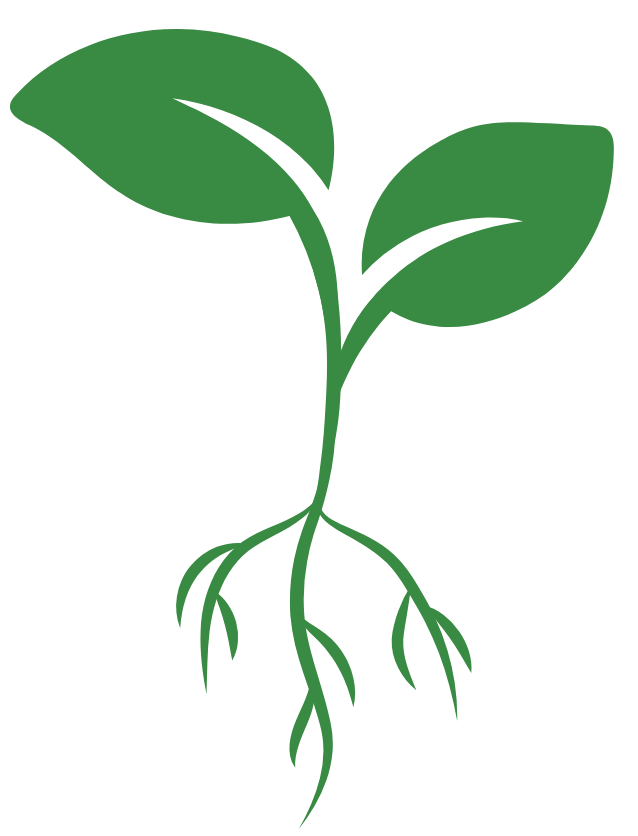
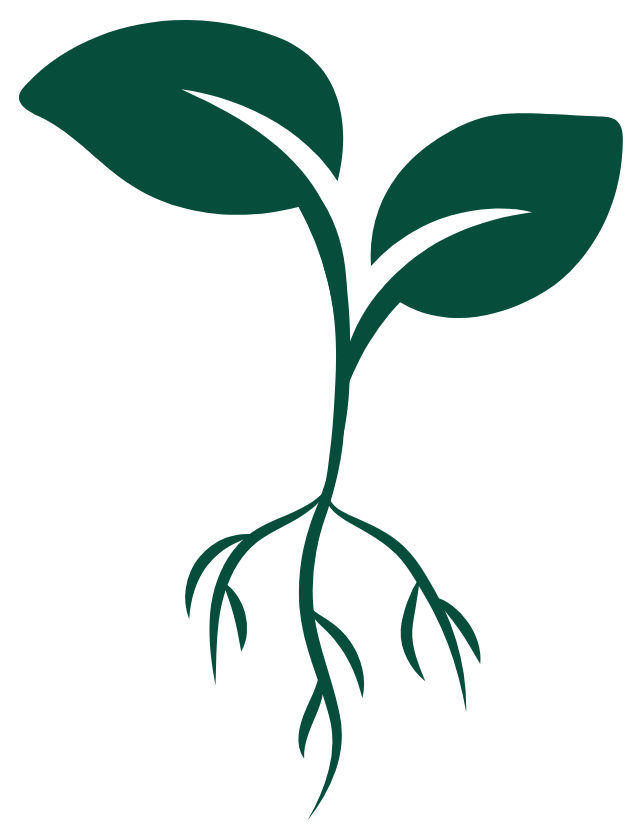
Función para modificar terminada y pequeños ajustes visuales

Changed region(s): [[0.0, 0.0, 0.9828, 0.994]]

diff --git a/mind-root/src/App.css b/mind-root/src/App.css
@@ -97,7 +97,7 @@ body {
 
 .InputBuscar {
   font-size: 1.1rem;
-  border: 1px solid #064E3B;
+  border: 3px solid #064E3B;
   border-radius: 15px;
   width: 800px;
   height: 50px;
@@ -105,9 +105,9 @@ body {
 }
 
 .BtnAgregar {
-  color: #F8E7C9;
-  width: 50px;
-  height: 50px;
+  color: #FFFF;
+  width: 55px;
+  height: 55px;
   font-size: 40px;
   border: 1px solid rgb(117, 175, 117);
   border-radius: 10px;
@@ -132,10 +132,8 @@ body {
   min-height: 140px;
   padding: 15px;
   background-color: rgb(255, 255, 255);
-  border: 1px solid rgb(200, 200, 200);
-  border-color: #064E3B;
+  box-shadow: 0 8px 16px rgba(0, 0, 0, 0.4);
   border-radius: 15px;
-  box-shadow: 0 2px 4px rgba(0, 0, 0, 0.05);
 }
 
 .SuperiorTarjeta {
@@ -192,25 +190,27 @@ body {
 /*Ventana Modificar*/
 
 .VentanaModificar {
-  display: fixed;
+  display: flex;
   position: fixed;
+  align-items: center;
   justify-content: space-between;
   flex-direction: column;
   top: 50%;
   left: 50%;
   width: 400px;
-  height: 200px;
+  height: 250px;
   transform: translate(-50%, -50%);
-  border: 3px solid #064E3B;
   border-radius: 10px;
-  padding: 20px;
   background-color: #ffff;
+  box-sizing: border-box;
 }
 
 .InputModificar {
-  border: none;
+  text-align: left;
+  border: 3px solid #064E3B;
   border-radius: 5px;
-  height: 200px;
+  width: 400px;
+  flex: 1;
 }
 
 .ContenedorBtnsVentana {
@@ -218,15 +218,30 @@ body {
   justify-content: center;
   flex-direction: row;
   margin-top: 30px;
-  gap: 20px;
 }
 
 .BtnCerrar {
+  border: none;
+  background: none;
   width: 70px;
+  height: 30px;
+  cursor: pointer;
+}
+
+.BtnCerrar img {
+  width: 30px;
   height: 30px;
 }
 
 .BtnModificarVentana {
+  background: none;
+  border: none;
   width: 70px;
   height: 30px;
+  cursor: pointer;
+}
+
+.BtnModificarVentana img {
+  width: 28px;
+  height: 28px;
 }

diff --git a/mind-root/src/App.jsx b/mind-root/src/App.jsx
@@ -17,6 +17,8 @@ function App() {
   const [categoriaActiva, setCategoriaActiva] = useState("recordatorios");
   const [textoInput, setTextoInput] = useState('')
   const [mostrarVentana, setMostrarVentana] = useState(false);
+  const [textoModificar, setTextoModificar] = useState('');
+  const [notaEditando, setNotaEditando] = useState(null);
 
   useEffect(() => {
     localStorage.setItem('notasMindRoot', JSON.stringify(notas))
@@ -34,6 +36,18 @@ function App() {
 
     setNotas([...notas, nuevaNota])
     setTextoInput('')
+  }
+
+  const modificarNota = () => {
+    if(textoModificar.trim() == ''){
+      return;
+    }
+    else{
+      setNotas(notas.map(nota => nota.id === notaEditando
+        ? {...nota, contenido: textoModificar.trim() } : nota
+      ))
+    }
+    setMostrarVentana(false);
   }
 
   const eliminarNota = (id) => {
@@ -83,7 +97,11 @@ function App() {
                 <div key={nota.id} className="TarjetaNota">
                   <div className='SuperiorTarjeta'>
                     <p className="ContenidoNota">{nota.contenido}</p>
-                    <button className='BtnModificar' onClick={() => setMostrarVentana(true)}>
+                    <button className='BtnModificar' onClick={() => {
+                        setNotaEditando(nota.id);
+                        setTextoModificar(nota.contenido);
+                        setMostrarVentana(true);
+                      }}>
                       <img src='src/assets/editar.png' className='IconoTarjeta'></img>
                     </button>
                     <button className='BtnEliminar' onClick={() => eliminarNota(nota.id)}><img src='src/assets/basura.png'></img></button>
@@ -97,12 +115,15 @@ function App() {
       </section>
       {mostrarVentana && (
             <div className='VentanaModificar'>
-              <input className='InputModificar'></input>
+              <textarea className='InputModificar' value={textoModificar} onChange={(e) => setTextoModificar(e.target.value)}></textarea>
               <div className='ContenedorBtnsVentana'>
-                <button onClick={() => setMostrarVentana(false)} className='BtnCerrar'>Cerrar</button>
-                <button className='BtnModificarVentana'>Modificar</button>
+                <button onClick={() => setMostrarVentana(false)} className='BtnCerrar'>
+                  <img src='src/assets/Close.png'></img>
+                </button>
+                <button className='BtnModificarVentana' onClick={modificarNota}>
+                  <img src='src/assets/Check.png'></img>
+                </button>
               </div>
-
             </div>
           )}
     </>